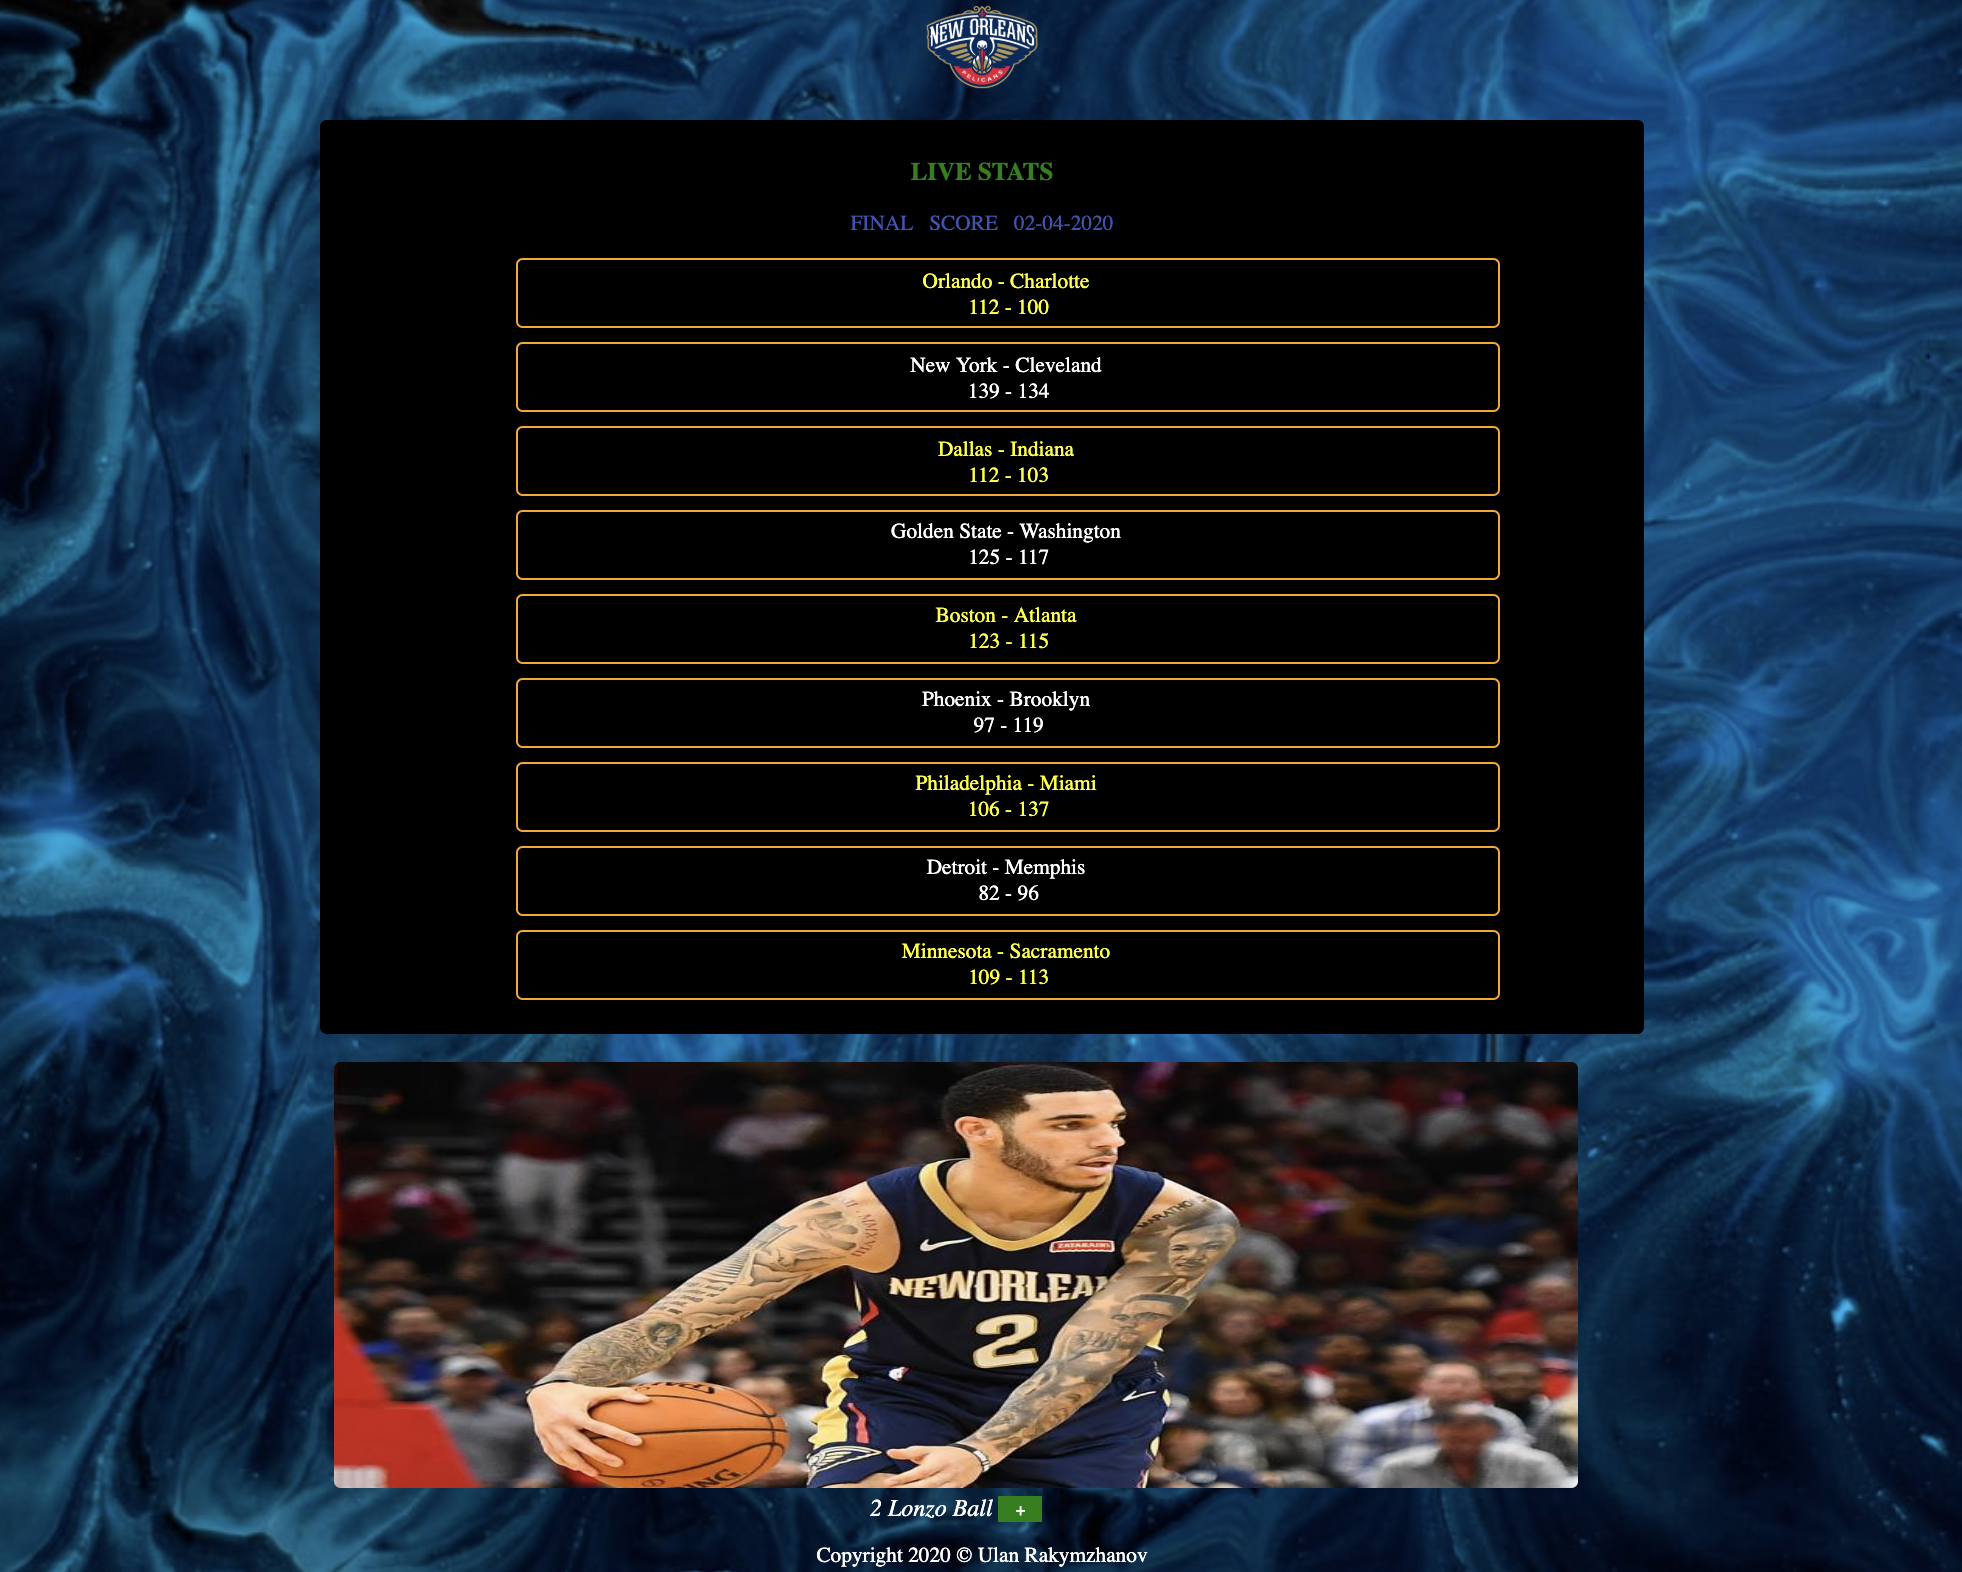
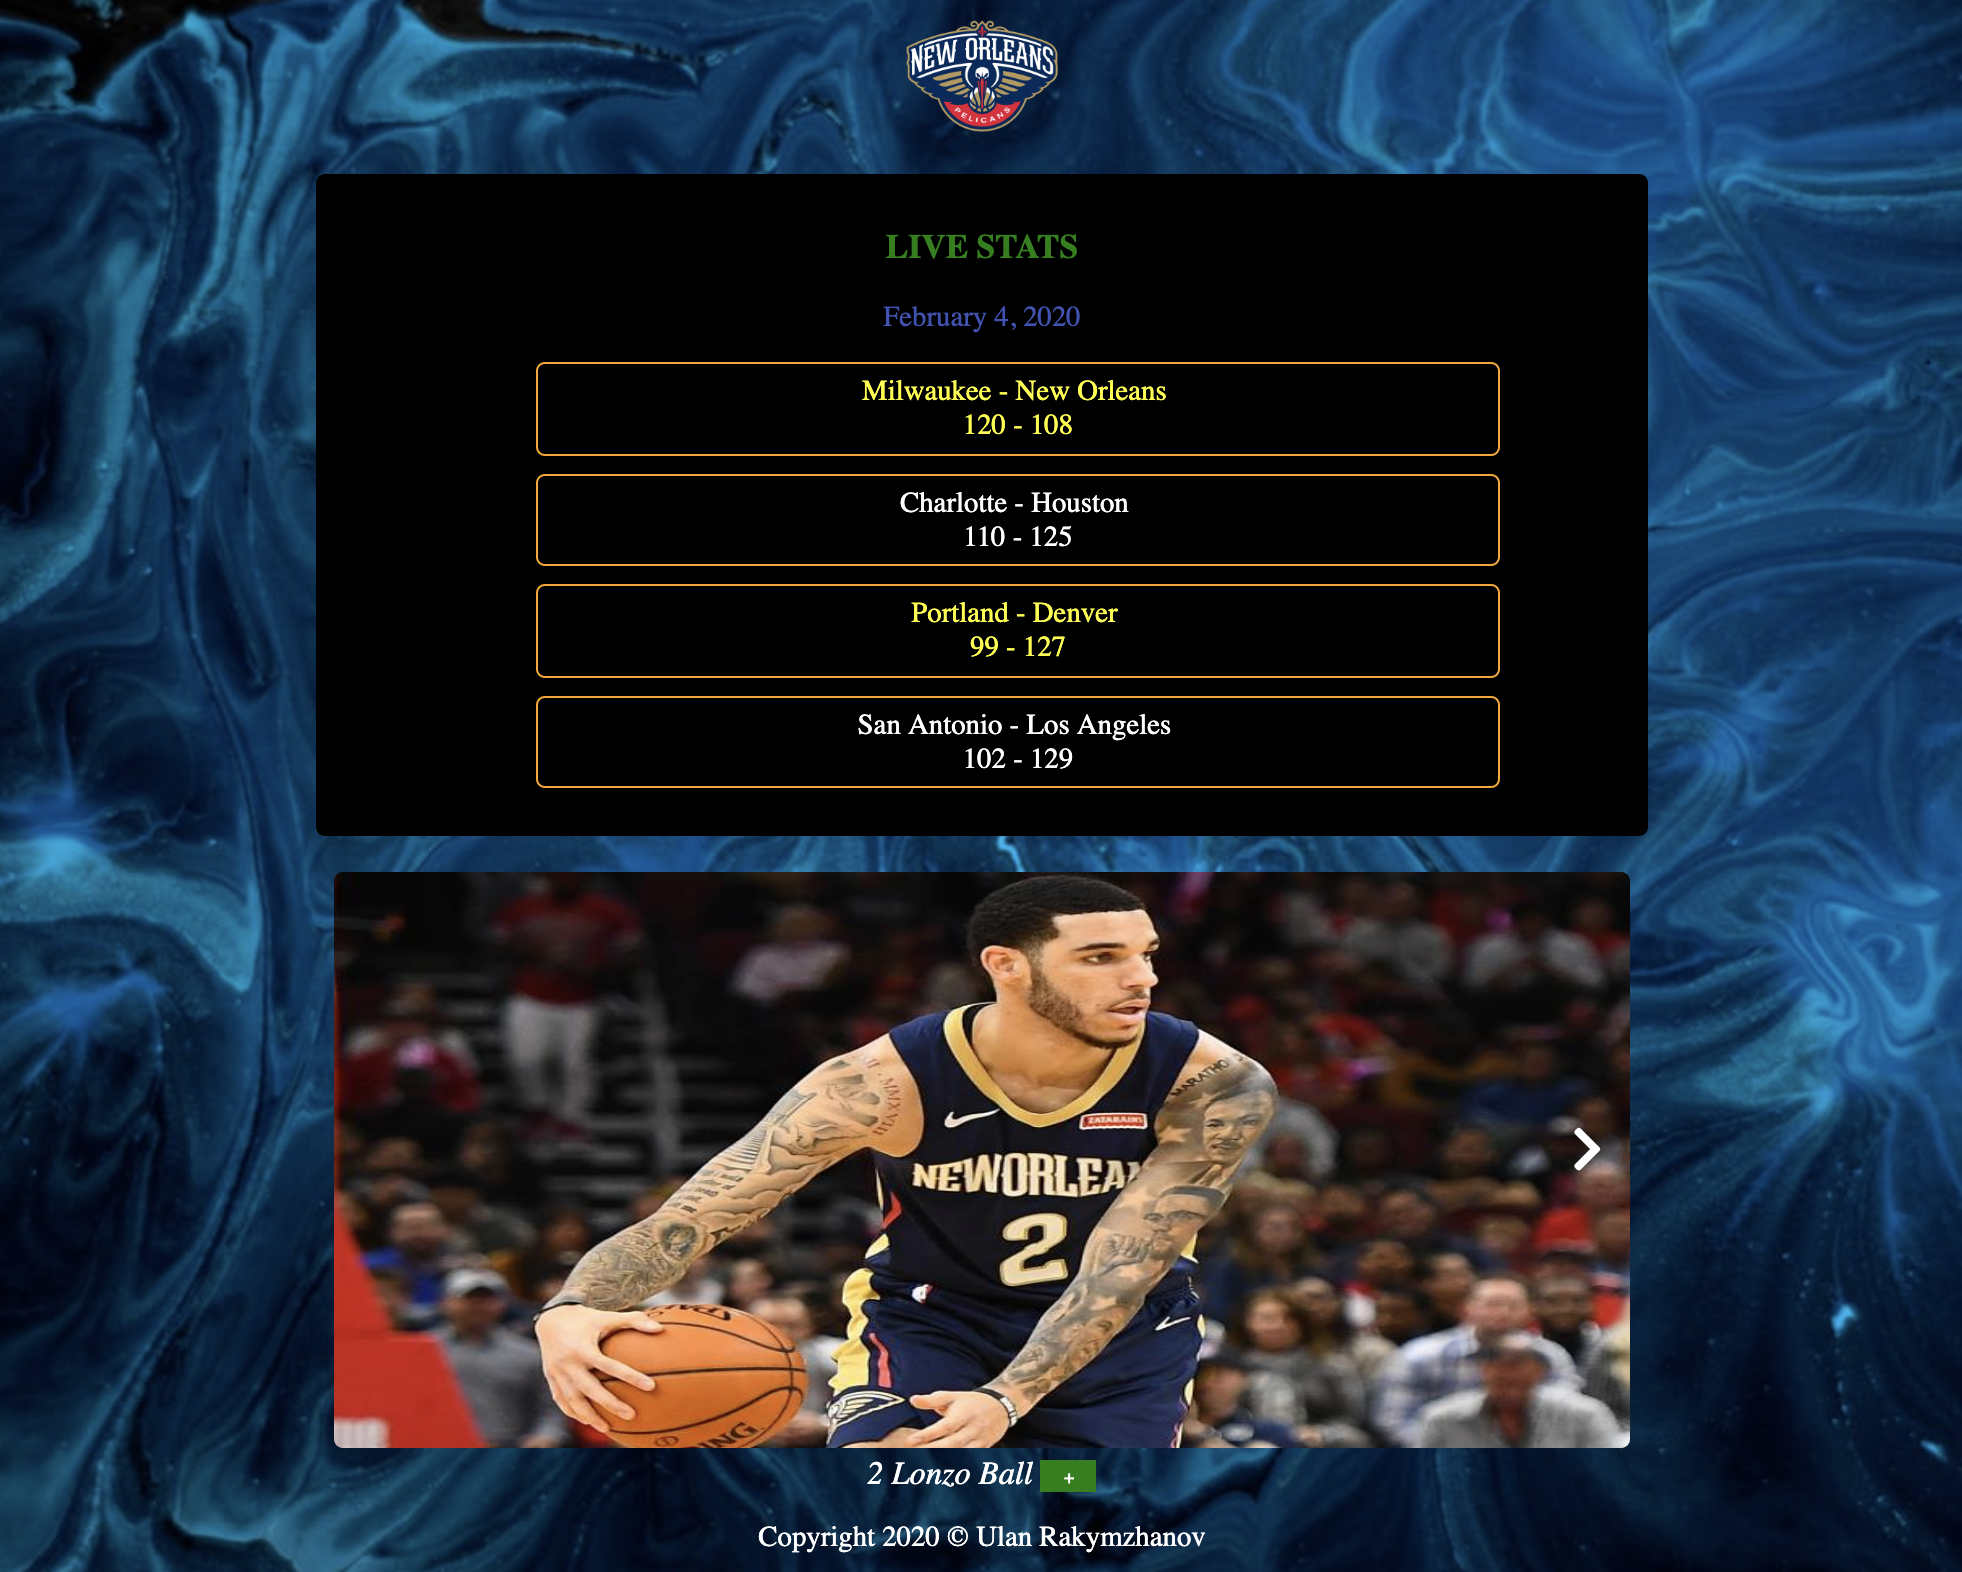
date format fixed

diff --git a/public/helpers/api_results.js b/public/helpers/api_results.js
@@ -1,9 +1,17 @@
 
 
 const apiInfo = document.querySelector('.lonzo-info');
-const apiScore = document.querySelector(".live-api-text");
+const apiScore = document.querySelector(".live-api-score");
+const currentDate = document.querySelector(".score-date-api");
 
 
+// Current Date
+// moment CDN used on browser
+const today = moment().format('LL');
+currentDate.innerHTML = today;
+
+
+//  get player info from api
 const getPlayerInfo = async () => {
     let playerData  = await fetch('/info');
     let playerArray = await playerData.json();
@@ -28,7 +36,7 @@ const getPlayer = async () => {
 }
 getPlayer();
 
-
+//  get score info from api
 const getScoreData = async () => {
     let playerData  = await fetch('/score');
     let playerArray = await playerData.json();
@@ -39,21 +47,17 @@ const getScoreData = async () => {
 const getScore = async () => {
     let jsonData = await getScoreData();
     const iNeed = jsonData.reduce(function(filtered, option) {
-        // console.log(option)
-        // if (option[0] === "gameId" || option[0] === "pts" || option[0] === "teamCityName") {
             filtered.push(option.gameId);
             filtered.push(option.teamCityName);
             filtered.push(option.pts);
 
-        // }
         return filtered;
     }, [])
-    console.log(iNeed);
     for(let i=0; i<iNeed.length; i++) {
     let removed = iNeed.splice(0, 6);
-    console.log(removed);
+    // console.log(removed);
      apiScore.innerHTML += `<li>${removed[1]} - ${removed[4]} <br> ${removed[2]} - ${removed[5]}</li>`
-    }        
+    }      
 }
 getScore();
 

diff --git a/public/index.html b/public/index.html
@@ -9,6 +9,8 @@
     <link rel="stylesheet" href="style.css">
     <!-- font awesome -->
     <script src="https://kit.fontawesome.com/3b5201b944.js" crossorigin="anonymous"></script>
+    <!-- momentjs -->
+    <script src="https://cdnjs.cloudflare.com/ajax/libs/moment.js/2.24.0/moment.min.js"></script>
 </head>
 <body>
     <div class="page">
@@ -22,9 +24,11 @@
 
         <section class="live-stats">
             <h3 style="color: green;">LIVE STATS</h3>
-            <div class="api-result">
-                <span style="color: #3f51b5" >FINAL &nbsp; SCORE &nbsp;  02-04-2020 </span>
-                <ul class="live-api-text">
+            <div class="score-result">
+                    <span class="score-date-api" style="color: #3f51b5"> 
+                        <!-- current date -->
+                    </span>
+                <ul class="live-api-score">
                     <!-- api result text-->
                 </ul>
             </div>

diff --git a/public/style.css b/public/style.css
@@ -67,12 +67,16 @@ body {
 }
 .left, .right {
     padding: 15px;
-    height: 100px;
-    background-color: rgba(22, 71, 104, 0.4);
+    height: 200px;
+    /*background-color: rgba(22, 71, 104, 0.4);*/
+    background: transparent;
     color: white;
     border: none;
     text-decoration: none;
     outline: none;   
+}
+.fa-chevron-right, .fa-chevron-left {
+    font-size: 28px;
 }
 
 /* live stats section */
@@ -87,20 +91,20 @@ body {
     overflow: hidden;
     border-radius: 5px;
 }
-.api-result {
+.score-result {
     max-width: 80%;
     margin: 0 auto;
 }
-.live-api-text {
+.live-api-score {
     list-style: none;
 }
-.live-api-text li {
+.live-api-score li {
     margin-bottom: 10px;
     border: 1px solid orange;
     padding: 6px;
     border-radius: 5px;
 }
-.live-api-text li:nth-child(odd) {
+.live-api-score li:nth-child(odd) {
     color: yellow;
 }
 em {

diff --git a/server/server.js b/server/server.js
@@ -10,6 +10,16 @@ const PORT = process.env.PORT || 3000;
 // const cors = require('cors');
 // app.use(cors);
 
+// current date
+var dateFormat = require('dateformat');
+
+var now = new Date();
+// console.log(dateFormat(now, "mm/dd/yyyy"));
+// moment date
+var moment = require('moment');
+const today = moment().format("l");
+console.log(today)
+
 // serve static files
 app.use(express.static(__dirname + '/../public/'));
 
@@ -39,11 +49,12 @@ NBA.stats.playerInfo({ PlayerID: lonzo.playerId }).then((info) => {
     });
 });
 
-NBA.stats.scoreboard({ gameDate: "02/03/2020" }).then((score) => {
+NBA.stats.scoreboard({ gameDate: `${today}` }).then((score) => {
     app.get('/score', function(req, res) {
         res.send(score);
     });
 });
 
 // console.log(info);
+
 

diff --git a/README.md b/README.md
@@ -1,9 +1,12 @@
 
 # nba live score page
-#### used external NBA api to render scores.
+## Render correct scores every day 
+## Players info section also gets updated
 
-### BONUS: my favorite teams information included.
-Players infos also coming from external API's.
+- used external NBA api to render scores.
+- BONUS: my favorite teams information slider included.
+- Players infos also coming from external API.
+- [Momentjs](https://momentjs.com/) used in all date formats.
 
 ![main page](public/assets/main.png)
 
